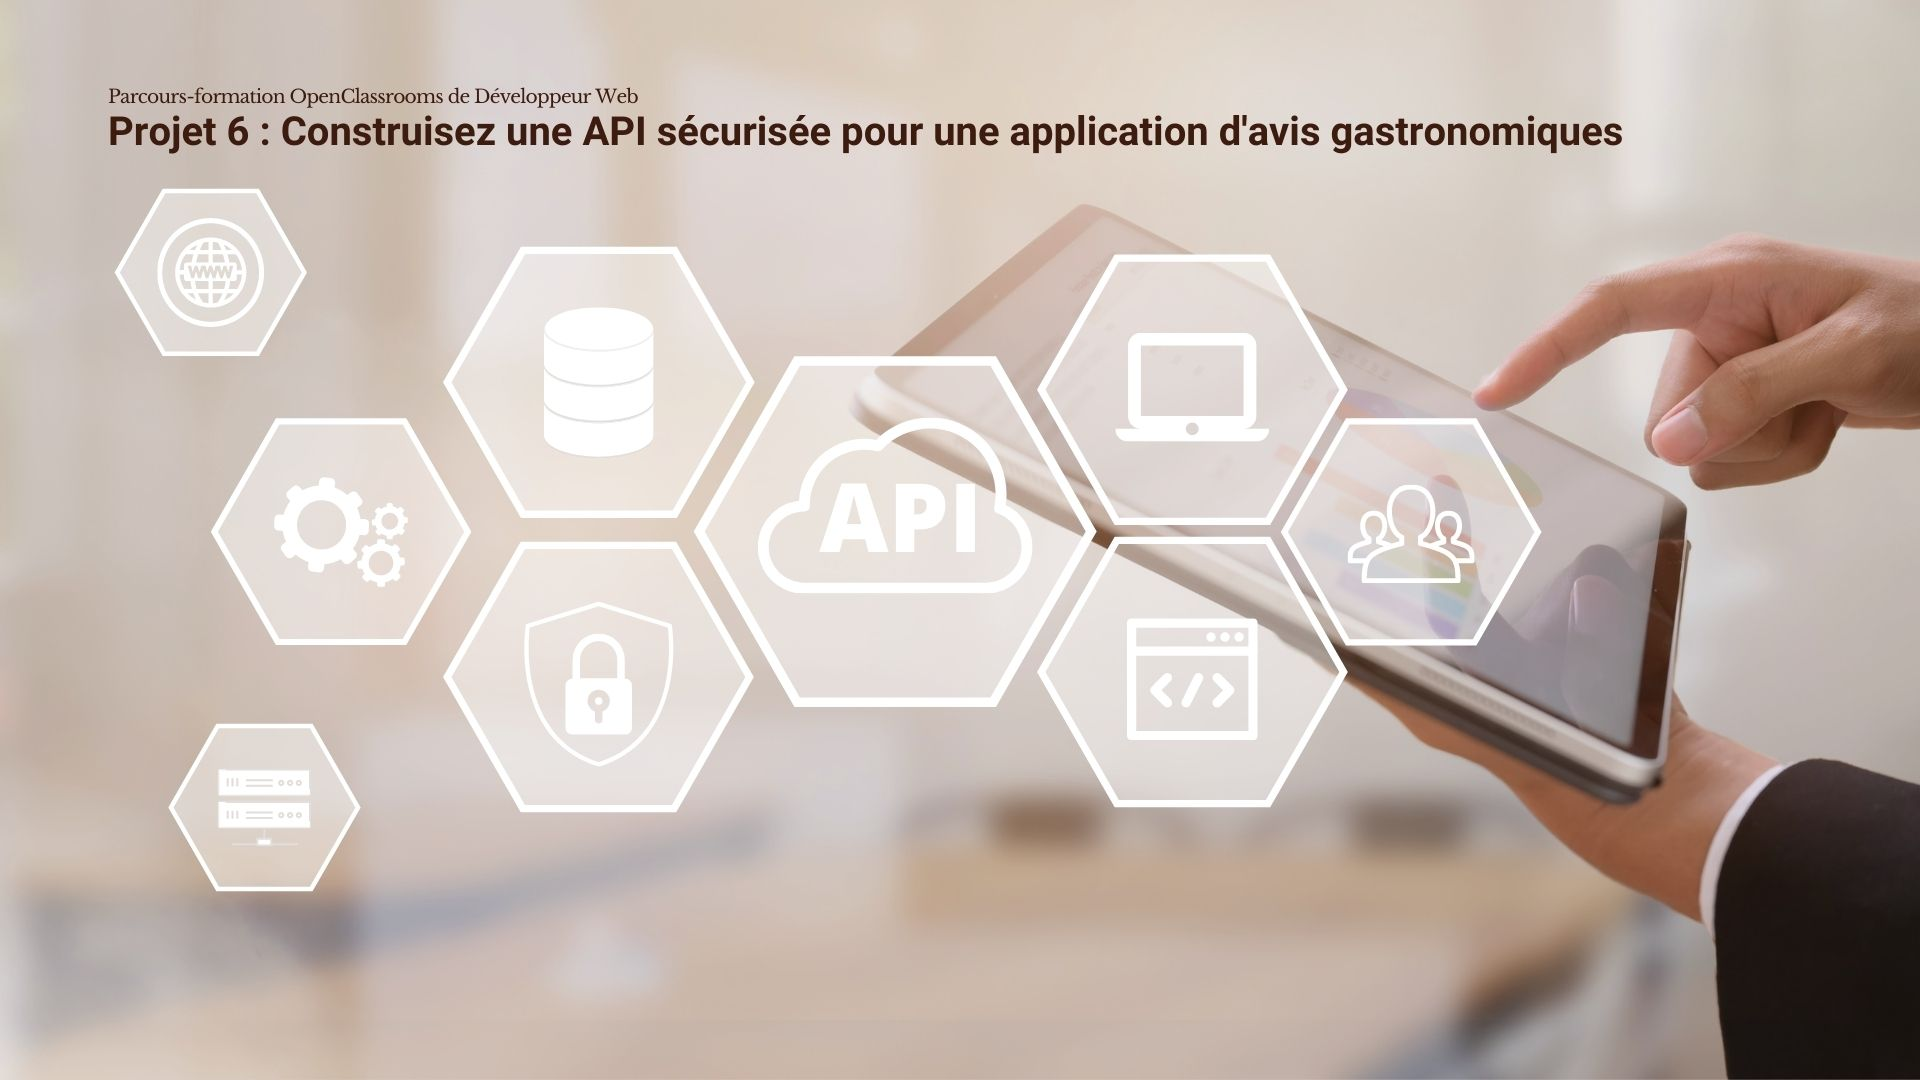
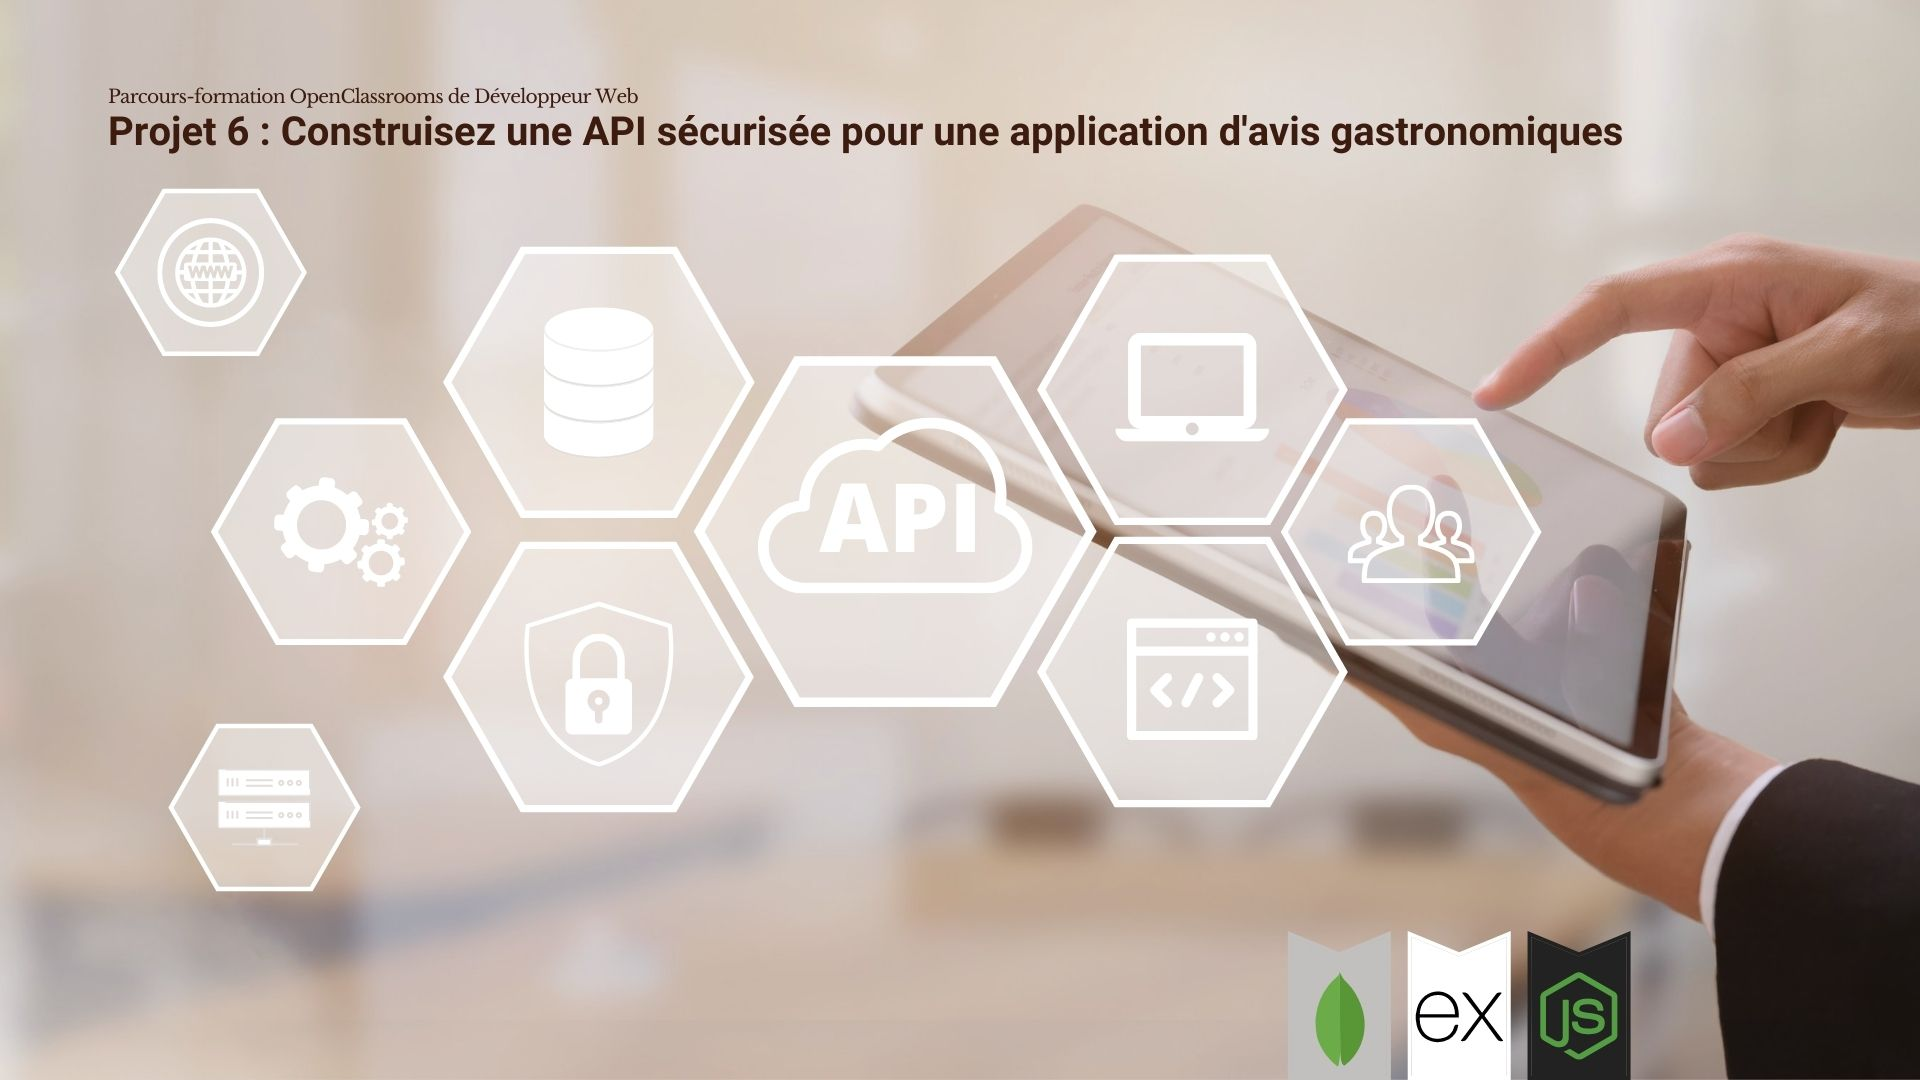
:memo: update readme

Changed region(s): [[0.6562, 0.8556, 0.875, 1.0]]

diff --git a/README.md b/README.md
@@ -10,10 +10,11 @@ La marque So Pekocko, qui crée des sauces piquantes, connaît un franc succès,
 
 ### Documentation 
 [Note de cadrage](https://github.com/GwendolineBENATEAU/GwendolineBenateau_6_18062021/blob/master/documentation/P6_Note_de_cadrage_SoPekocko_V3.pdf)
+<br>
 [Guidelines API](https://github.com/GwendolineBENATEAU/GwendolineBenateau_6_18062021/blob/master/documentation/P6_Guidelines%2BAPI.pdf)
 
 ### Objectif
-Réalisation du backend et de l'API sécurisée du MVP de l'app web Piquante (SoPeckocko) avec Node.js + framework Express, MongoBD + plugin Mongoose, en maitrissant les standards de protection OWASP et règlementation RGPD.
+Réalisation du backend et de l'API sécurisée de l'app web Piquante (SoPeckocko) avec Node.js + framework Express, MongoBD + plugin Mongoose, en respectant les standards de sécurité OWASP et règlementation RGPD en matière de protections des données.
 
 
 ### Compétences évaluées
@@ -28,14 +29,18 @@ Réalisation du backend et de l'API sécurisée du MVP de l'app web Piquante (So
 
 ### Installation de l'app
 1. Cloner l'ensemble de ce dépôt GitHub  
+
 2. Dans un terminal, accéder au dossier du __frontend__ :
  - Veuillez préalablement consulter [le repo GitHub initial du frontend](https://github.com/OpenClassrooms-Student-Center/dwj-projet6) pour connaitre l'environnement et versions utilisés pour son développement
  - Installer les dépendances : ``npm install`` 
  - Démarer le serveur de développement : ``ng serve`` 
+
 3. Ajouter à la racine du backend, le fichier de configuration __nommé ".env"__, qui vous a été fourni dans les livrables post-soutenance. Dans d'autres circonstances, veuillez m'en faire la demande :)
+
 4. Dans un autre terminal, accéder au dossier du __backend__ :
  - Installer les dépendances : ``npm install`` 
  - Lancer le serveur node : ``node server`` 
+
 5. Rendez-vous sur http://localhost:4200/  
 
 
@@ -43,14 +48,11 @@ Réalisation du backend et de l'API sécurisée du MVP de l'app web Piquante (So
 - [VisualStudioCode](https://code.visualstudio.com/) - Editeur de texte open source
 - [GitKraken](https://www.gitkraken.com/) - Outil de versionning (client)
 
-## Stack technique back-end, BDD et add-on
-- 
-- 
-- 
-- 
-- Optimisation SEO, WCAG et analyse des performances
-- Validation W3C
-- Compatibilité Chrome et Firefox (dernières versions)
+## Stack technique back-end et BDD
+- NODE.JS / EXPRESS
+- MongoDB
+- Standards de sécurité OWASP
+- Règlementation RGPD
 
 ## Présentation du projet
 - Diaporama de présentation du projet [SoPeckocko](https://www.canva.com/design/DAEjswdy0sk/8AyC8RN9ptsBGosoUOEYKA/view?utm_content=DAEjswdy0sk&utm_campaign=designshare&utm_medium=link&utm_source=sharebutton)
